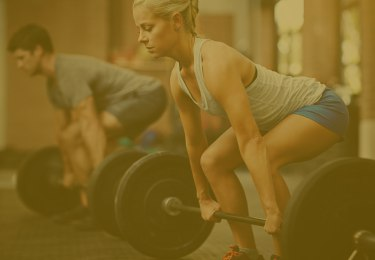
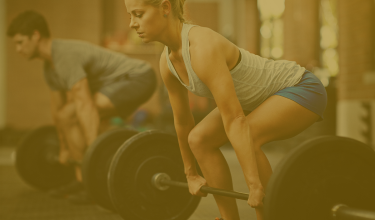
Favorites on the home page, small fixes

diff --git a/screens/home/index.js b/screens/home/index.js
@@ -1,50 +1,58 @@
 import React, { Component } from 'react';
 import PropTypes from 'prop-types';
 import { connect } from 'react-redux';
-import { ScrollView, View, Text, Image } from 'react-native';
+import { ScrollView, View, Text, Image, FlatList, TouchableOpacity } from 'react-native';
 import styles from './styles';
-/*
-
- любимые надо сделать так:
-┌──────────────────┐
-│    УПРАЖНЕНИЯ    │
-├──────────────────┤
-│┌───────────────┐ │
-││  упражнение1  │ │
-│├───────────────┤ │
-││  упражнение2  │ │
-│└───────────────┘ │
-├──────────────────┤
-│    ТРЕНАЖЕРЫ     │
-├──────────────────┤
-│┌───────────────┐ │
-││   тренажер1   │ │
-│├───────────────┤ │
-││   тренажер2   │ │
-│└───────────────┘ │
-└──────────────────┘
- */
+import GridView from 'react-native-super-grid';
 
 
- const Home = props => {
+const FlatListItem = props => {
+  const {name} = props.item;
+  return (<View style={{
+    marginBottom: 4,
+    backgroundColor:'#F2C94C',
+    flex: 1,
+    flexDirection: 'column', 
+    justifyContent: 'center', 
+    alignItems: 'center',
+    borderColor: '#808080',
+    borderWidth: 1,
+    borderRadius: 10
+    }}>
+    <TouchableOpacity onPress={() => {props.navigate('Exercise', props.item)}}>
+      <Text style={{
+        color:'white',
+        fontSize: 28,
+        fontFamily: 'Advent Pro Bold',
+        padding: 10}}
+      >
+        {name}
+      </Text>
+    </TouchableOpacity>
+  </View>)
+};
+
+
+
+const Home = props => {
   const { execs } = props.member;
   const exercises = props.exercise.items;
-  // liked - список любимых упражнений
   const liked = exercises.filter(v => execs.indexOf(v.id) !== -1);
+  const { navigate } = props.navigation;
   return (
     <View>
       <Image
         style={styles.backgroundImage}
         source={require('../../assets/images/bg_home.jpg')}
       />
-      <View style={styles.container}>
-        <Text style={styles.title}>Wake Up.</Text>
-        <Text style={styles.title}>Work Out.</Text>
-        <Text style={styles.title}>Look Hot.</Text>
-        <Text style={styles.title}>Go to Gym.</Text>
-      </View>
+      <FlatList 
+        style={{padding: 50}}
+        data={liked}
+        renderItem={(item) => <FlatListItem {...item} navigate={navigate} />}
+      />
     </View>
   );
+  
 };
 Home.navigationOptions = {
   title: 'Home',

diff --git a/screens/Library.js b/screens/Library.js
@@ -1,11 +1,18 @@
 import React from 'react';
-import { ScrollView } from 'react-native';
+import { ScrollView, StyleSheet } from 'react-native';
 import BlockBtn from '../components/block_btn';
 
+
+const styles = StyleSheet.create({
+  contentContainer: {
+    flex: 1,
+    alignItems: 'center'
+  }
+});
 const Library = props => {
   const { navigate } = props.navigation;
   return (
-    <ScrollView style={{ flex: 1 }}>
+    <ScrollView contentContainerStyle={styles.contentContainer}>
       <BlockBtn
         label="EXERCISES"
         imageSource={require('../assets/images/exercises.png')}

diff --git a/screens/home/styles.js b/screens/home/styles.js
@@ -10,7 +10,8 @@ const styles = StyleSheet.create({
   },
   backgroundImage: {
     position: "absolute",
-    resizeMode: "cover"
+    resizeMode: "cover",
+    flex: 1
   },
   title: {
     width: '100%',
